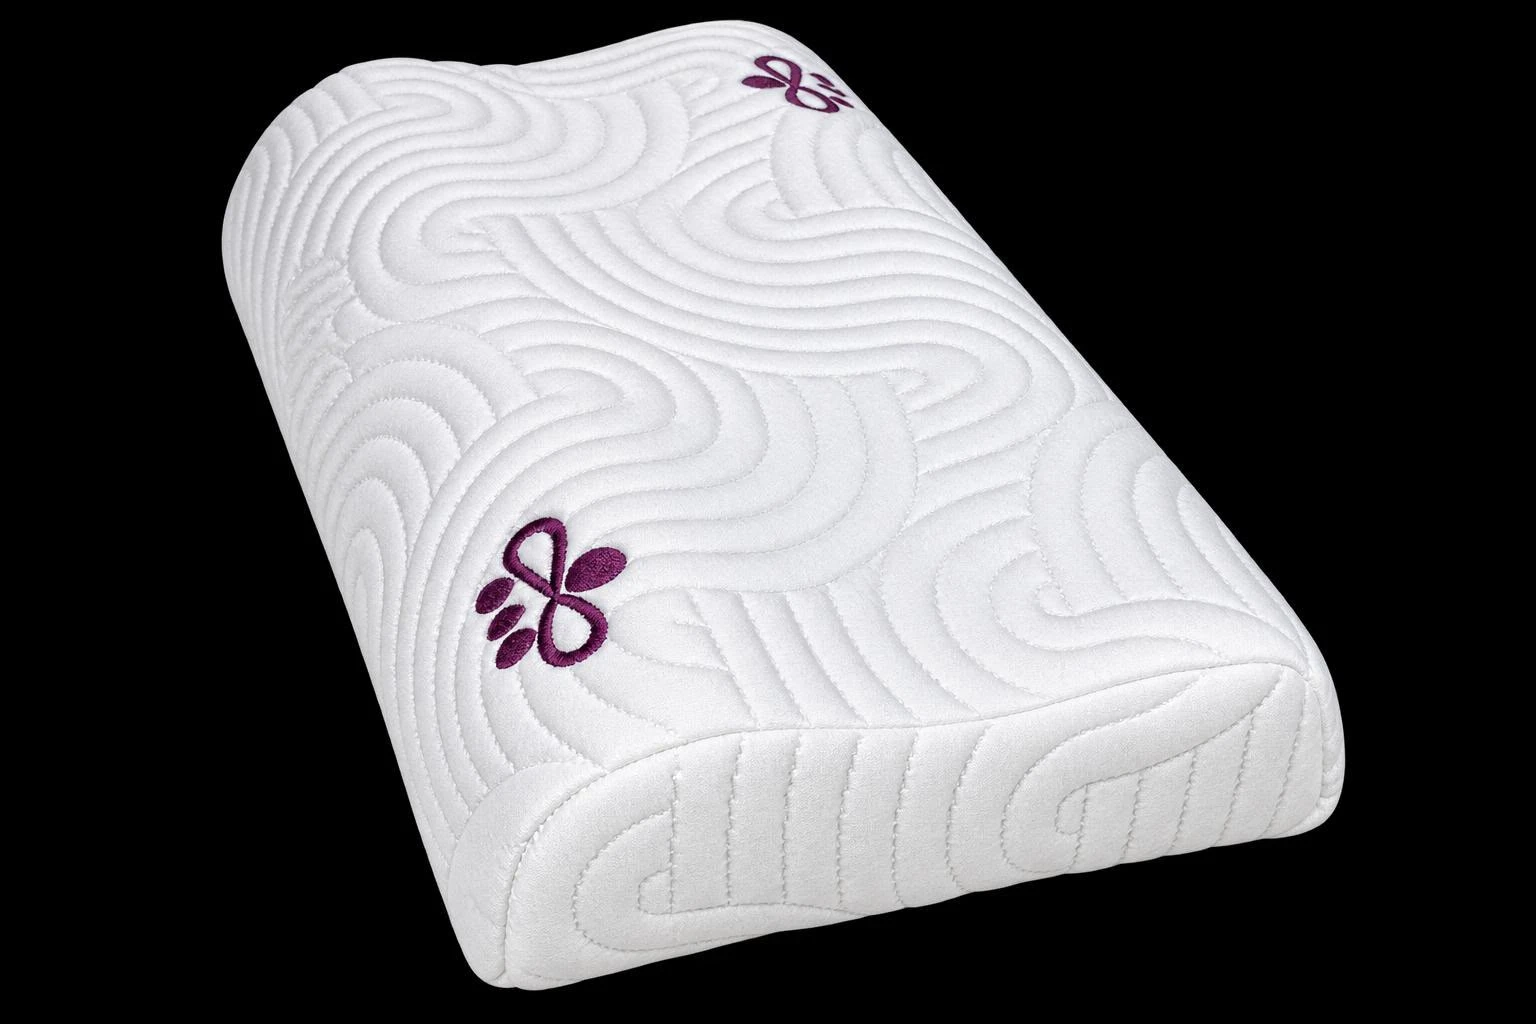
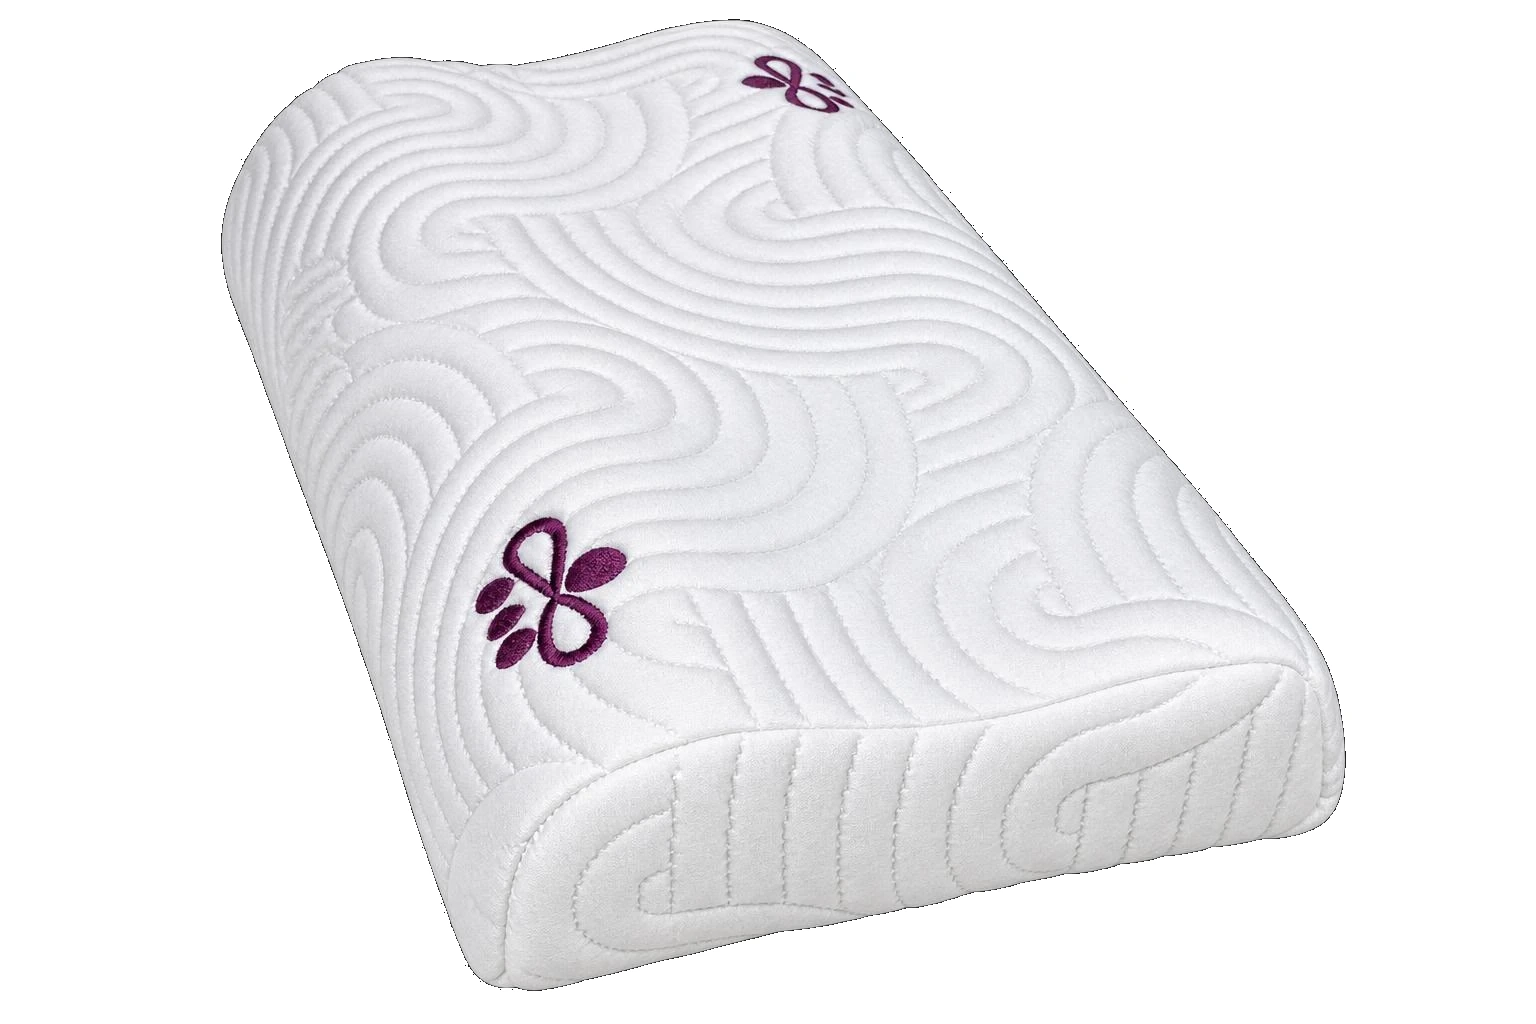
Make homepage phase cards clickable, fix neck-pillow background and crop
- Fixed somnobalance-neck-pillow.webp: still had the black background
  from the client's original WhatsApp photo batch — only the roll-on/
  oil-blend/room-spray trio got the white-background fix earlier, this
  one was missed since it was added in a separate commit.
- Phase cards were plain divs with an aria-hidden="true" arrow badge —
  looked clickable but did nothing. Added a slug field to each phase
  entry (both dictionaries) and wrapped each card in a real Link to its
  matching product page; the Regenerate card (no product currently maps
  to that phase) links to the shop instead of nowhere.
- Switched the image fill from object-cover to object-contain
  (top-aligned, with padding) so product photos display whole instead
  of being cropped mid-bottle/mid-pillow to fill the 4:3 frame.

diff --git a/src/app/[lang]/page.tsx b/src/app/[lang]/page.tsx
@@ -117,20 +117,22 @@ export default async function Home({ params }: { params: Promise<{ lang: string 
               // index) get the mauve tint, LET GO/REGENERATE (odd index)
               // get the sage tint, both as ~9% tinted background fills.
               const accentColor = i % 2 === 0 ? "var(--color-phase-mauve)" : "var(--color-phase-sage)";
+              const href = phase.slug ? `/${l}/shop/${phase.slug}` : `/${l}/shop`;
               return (
-                <div
+                <Link
                   key={phase.name}
-                  className="overflow-hidden rounded-2xl"
+                  href={href}
+                  className="group block overflow-hidden rounded-2xl transition hover:shadow-md"
                   style={{ background: `color-mix(in srgb, ${accentColor} 9%, white)` }}
                 >
-                  <div className="relative aspect-[4/3]">
+                  <div className="relative aspect-[4/3] bg-white">
                     {phase.image ? (
                       <Image
                         src={phase.image}
                         alt=""
                         fill
                         sizes="(min-width: 1024px) 25vw, (min-width: 640px) 50vw, 100vw"
-                        className="object-cover"
+                        className="object-contain object-top p-4 transition duration-300 group-hover:scale-105"
                       />
                     ) : (
                       <div
@@ -151,12 +153,12 @@ export default async function Home({ params }: { params: Promise<{ lang: string 
                     </div>
                     <span
                       aria-hidden="true"
-                      className="flex h-8 w-8 shrink-0 items-center justify-center rounded-full bg-mauve text-white"
+                      className="flex h-8 w-8 shrink-0 items-center justify-center rounded-full bg-mauve text-white transition group-hover:bg-mauve-dark"
                     >
                       →
                     </span>
                   </div>
-                </div>
+                </Link>
               );
             })}
           </div>
